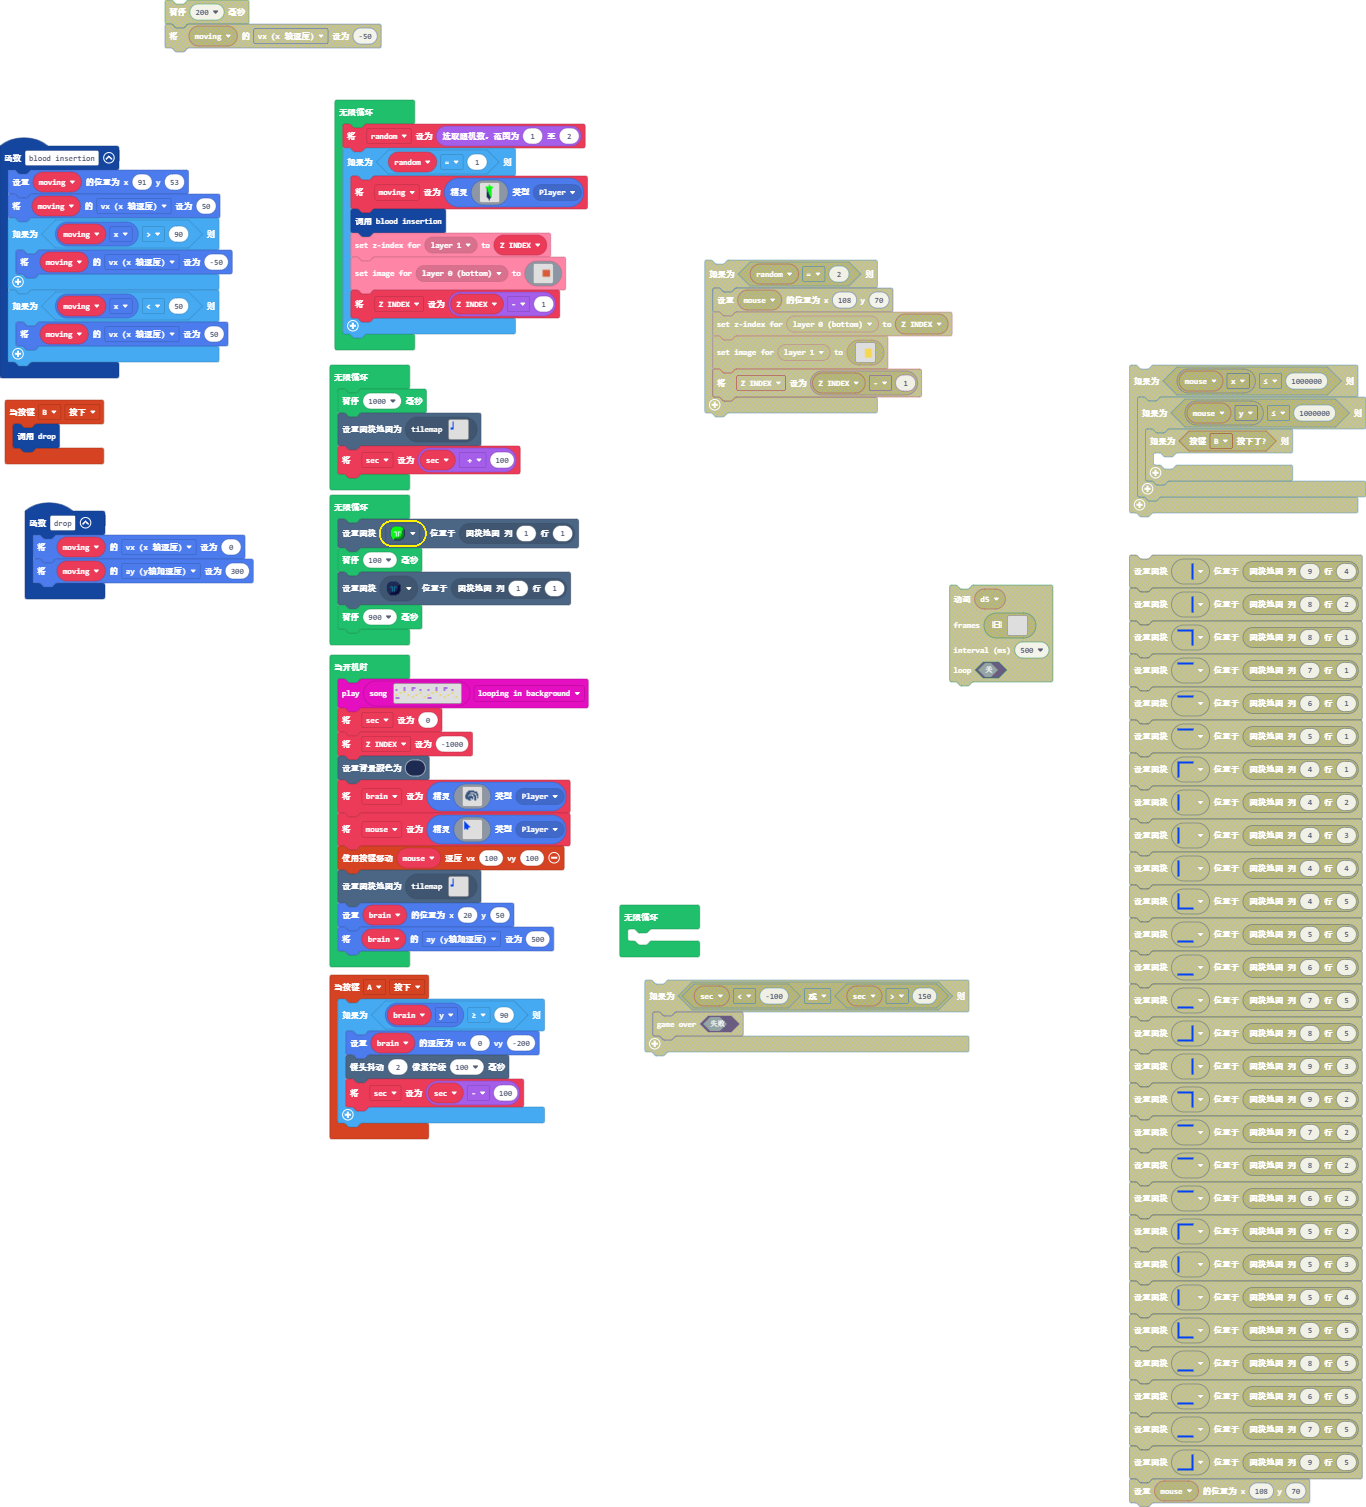
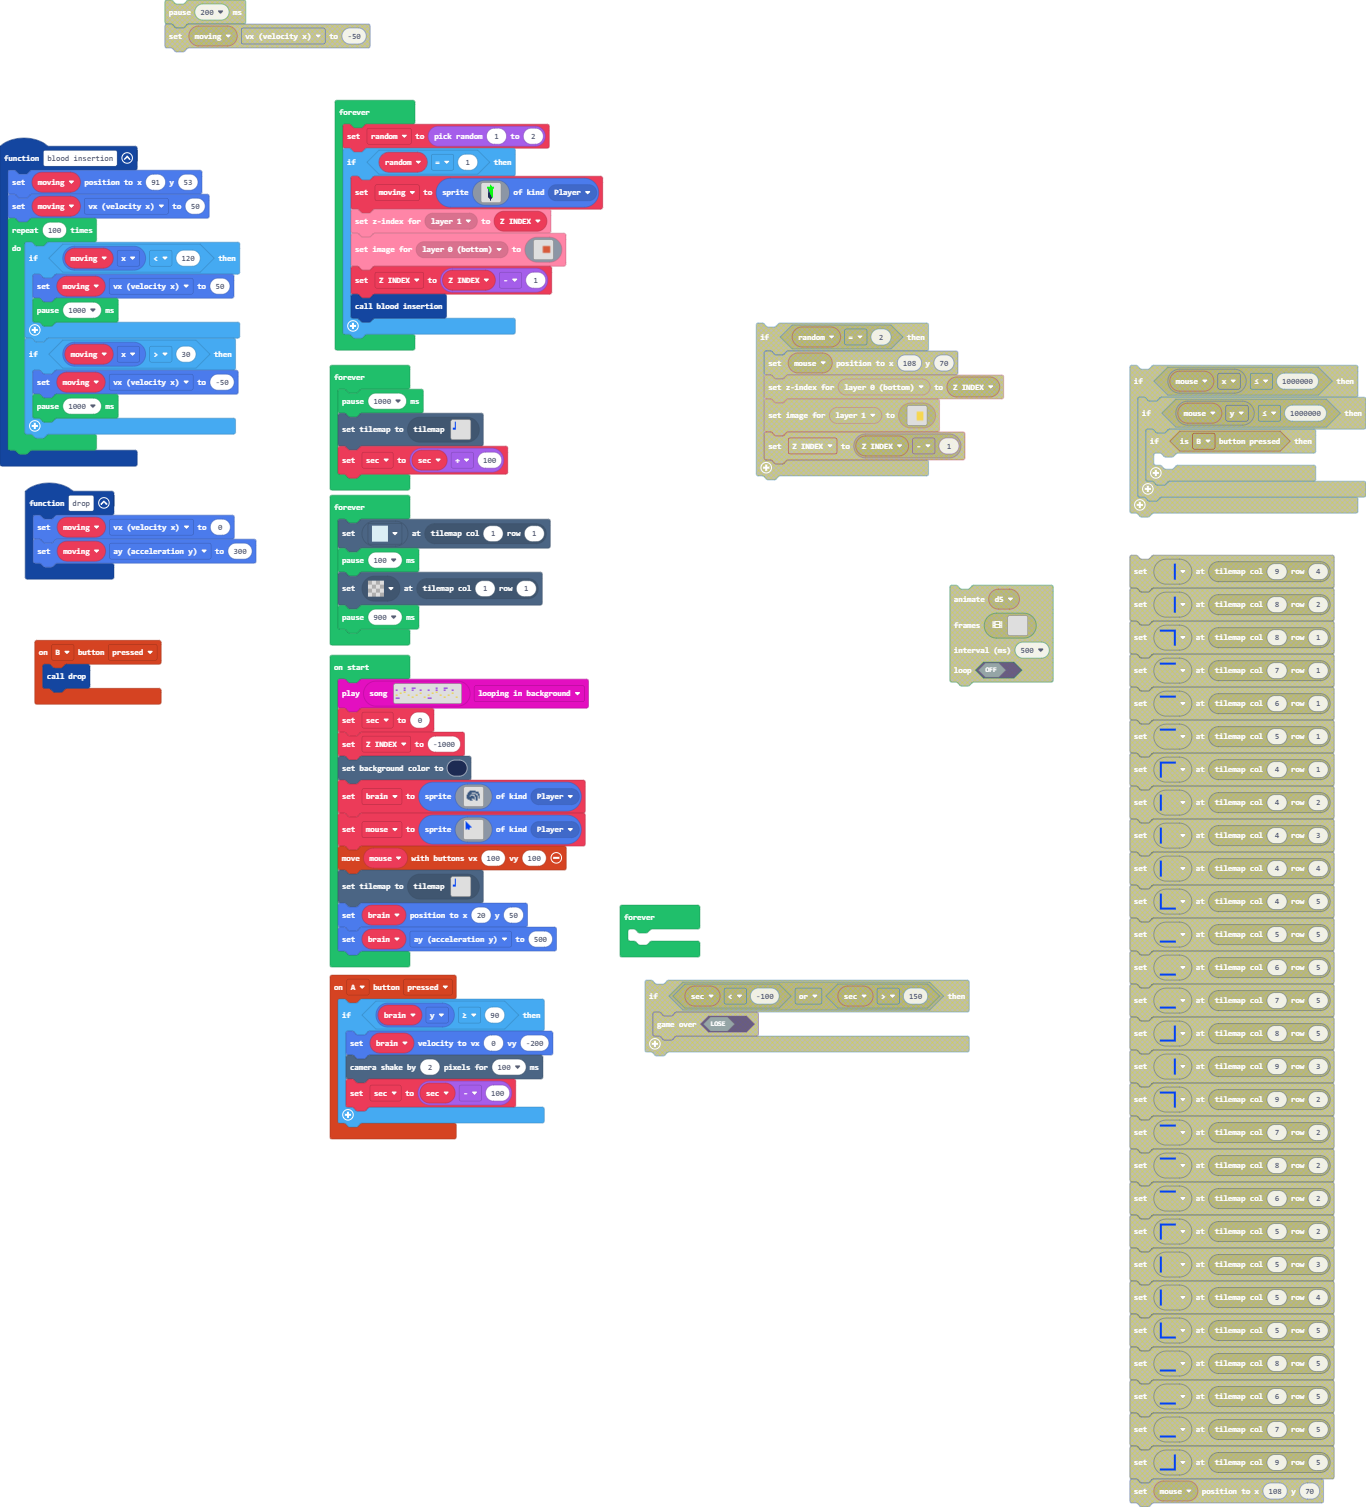
Update main.blocks, main.ts

diff --git a/main.ts b/main.ts
@@ -15,11 +15,15 @@ controller.B.onEvent(ControllerButtonEvent.Pressed, function () {
 function blood_insertion () {
     moving.setPosition(91, 53)
     moving.vx = 50
-    if (moving.x > 90) {
-        moving.vx = -50
-    }
-    if (moving.x < 50) {
-        moving.vx = 50
+    for (let index = 0; index < 100; index++) {
+        if (moving.x < 120) {
+            moving.vx = 50
+            pause(1000)
+        }
+        if (moving.x > 30) {
+            moving.vx = -50
+            pause(1000)
+        }
     }
 }
 let random = 0
@@ -91,7 +95,6 @@ forever(function () {
             . . . . . . . f . . . . . . . . 
             . . . . . . . f . . . . . . . . 
             `, SpriteKind.Player)
-        blood_insertion()
         scroller.setLayerZIndex(scroller.BackgroundLayer.Layer1, Z_INDEX)
         scroller.setLayerImage(scroller.BackgroundLayer.Layer0, img`
             ................................................................................................................................................................
@@ -216,6 +219,7 @@ forever(function () {
             ................................................................................................................................................................
             `)
         Z_INDEX = Z_INDEX - 1
+        blood_insertion()
     }
 })
 forever(function () {
